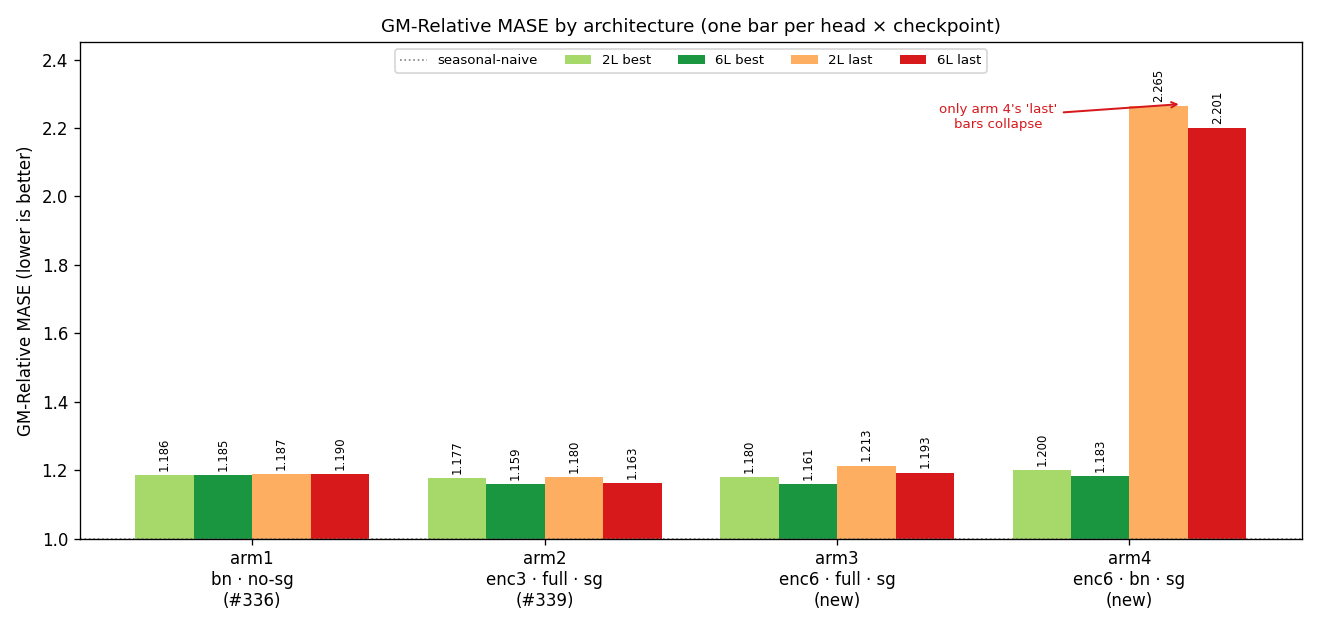
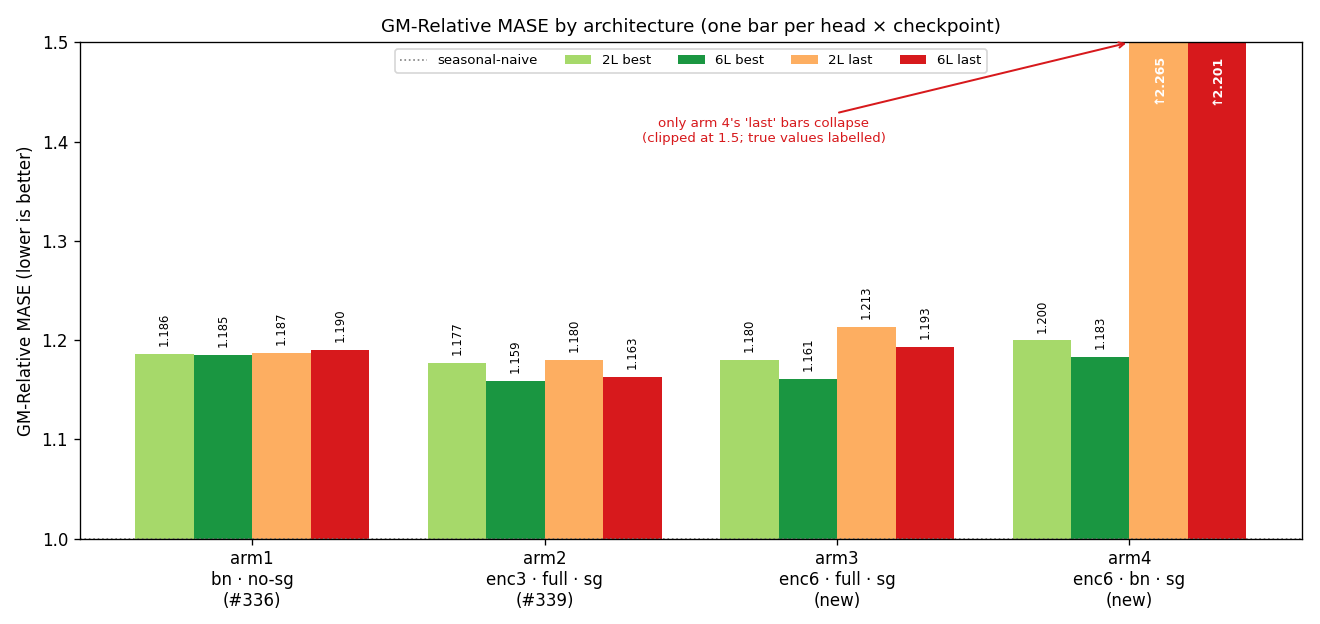
report(#341): image-first rewrite (per maintainer) — lead with figures, table after; new 2x2 design schematic; both bar charts clipped at 1.5 (true values labelled); intro states all new arms use stop-grad (1-2 reused); fix schematic colour (arm4 = new/sg green)

diff --git a/experiments/2026-06-11_stopgrad_capacity/scripts/plot_design_grid.py b/experiments/2026-06-11_stopgrad_capacity/scripts/plot_design_grid.py
@@ -1,0 +1,127 @@
+#!/usr/bin/env python3
+"""#341 — design schematic: the four arms placed on the encoder-depth x
+forecaster-width plane (all stop-grad), so the experiment's shape is shown, not
+tabulated in prose. Arms 1-2 are reused references; 3-4 are new. Arm 1 shares the
+enc6 x bottleneck cell with arm 4 but is the no-stop-grad reference (marked). The
+two comparisons the card makes are drawn as arrows: the depth step (a2->a3) and
+the bottleneck step (a3->a4). Env: OUT.
+"""
+import os
+import matplotlib
+matplotlib.use("Agg")
+import matplotlib.pyplot as plt
+from matplotlib.patches import FancyBboxPatch, FancyArrowPatch
+
+OUT = os.environ.get(
+    "OUT",
+    "/tmp/cf-341/experiments/2026-06-11_stopgrad_capacity/plots/design_grid.png",
+)
+
+# grid coords: x = forecaster width, y = encoder depth
+XS = {"full": 0, "bn": 1}          # full-width left, 128-bottleneck right
+YS = {"enc3": 1, "enc6": 0}        # 3-layer top, 6-layer bottom
+XLAB = ["6-layer full-width\nforecaster", "128-wide bottleneck\nforecaster"]
+YLAB = ["6-layer encoder", "3-layer encoder"]  # row 0 = enc6, row 1 = enc3
+
+NEW = "#2ca02c"
+REUSE = "#7f7f7f"
+NOSG = "#c0504d"
+
+# (x, y, title, sub, facecolor, edgecolor)
+CARDS = [
+    ("full", "enc3", "arm 2", "enc3 · full · sg\nreused — #339 winner", "#eef6ee", REUSE),
+    ("full", "enc6", "arm 3", "enc6 · full · sg\nNEW", "#eaf5ea", NEW),
+    ("bn",   "enc6", "arm 4", "enc6 · bn · sg\nNEW", "#eaf5ea", NEW),
+]
+
+fig, ax = plt.subplots(figsize=(9.2, 6.2))
+cw, ch = 0.78, 0.62
+
+
+def cell_center(xk, yk):
+    return XS[xk] + 0.5, (1 - YS[yk]) + 0.5  # invert y so enc6 sits at bottom visually
+
+
+def draw_card(xk, yk, title, sub, fc, ec, lw=2.0, dashed=False):
+    cx, cy = cell_center(xk, yk)
+    box = FancyBboxPatch(
+        (cx - cw / 2, cy - ch / 2), cw, ch,
+        boxstyle="round,pad=0.02,rounding_size=0.06",
+        linewidth=lw, edgecolor=ec, facecolor=fc,
+        linestyle="--" if dashed else "-", zorder=3,
+    )
+    ax.add_patch(box)
+    ax.text(cx, cy + 0.14, title, ha="center", va="center",
+            fontsize=13, fontweight="bold", color=ec, zorder=4)
+    ax.text(cx, cy - 0.08, sub, ha="center", va="center",
+            fontsize=9.5, color="#222", zorder=4)
+    return cx, cy
+
+
+# the three stop-grad arms
+centers = {}
+for xk, yk, title, sub, fc, ec in CARDS:
+    centers[(xk, yk)] = draw_card(xk, yk, title, sub, fc, ec)
+
+# arm 1: the no-stop-grad reference shares the enc6 x bottleneck cell with arm 4.
+# Draw it as a small offset/dashed tag so the reader sees it is the SAME architecture
+# minus the stop-grad, not a fifth cell.
+cx4, cy4 = centers[("bn", "enc6")]
+ax.text(cx4, cy4 - ch / 2 - 0.135,
+        "arm 1 — same cell, NO stop-grad (reused #336 reference)",
+        ha="center", va="center", fontsize=9, color=NOSG, fontweight="bold", zorder=4)
+
+# empty stop-grad cell (enc3 x bottleneck) — never run
+ecx, ecy = cell_center("bn", "enc3")
+ax.add_patch(FancyBboxPatch(
+    (ecx - cw / 2, ecy - ch / 2), cw, ch,
+    boxstyle="round,pad=0.02,rounding_size=0.06",
+    linewidth=1.4, edgecolor="#bbbbbb", facecolor="#f4f4f4",
+    linestyle=":", zorder=2))
+ax.text(ecx, ecy, "(not run)", ha="center", va="center",
+        fontsize=10, color="#999", style="italic", zorder=3)
+
+# comparison arrows
+# depth step: a2 (enc3 full) -> a3 (enc6 full), vertical
+c2 = centers[("full", "enc3")]; c3 = centers[("full", "enc6")]
+ax.add_patch(FancyArrowPatch(
+    (c2[0] - 0.12, c2[1] - ch / 2), (c3[0] - 0.12, c3[1] + ch / 2),
+    arrowstyle="-|>", mutation_scale=18, lw=2.0, color="#1a6e1a", zorder=5))
+ax.text(c2[0] - 0.30, (c2[1] + c3[1]) / 2, "depth step\nenc3→enc6", ha="right",
+        va="center", fontsize=9, color="#1a6e1a", fontweight="bold")
+
+# bottleneck step: a3 (enc6 full) -> a4 (enc6 bn), horizontal
+c4 = centers[("bn", "enc6")]
+ax.add_patch(FancyArrowPatch(
+    (c3[0] + cw / 2, c3[1] - 0.04), (c4[0] - cw / 2, c4[1] - 0.04),
+    arrowstyle="-|>", mutation_scale=18, lw=2.0, color="#b8860b", zorder=5))
+ax.text((c3[0] + c4[0]) / 2, c3[1] + 0.12, "width step\nfull→bottleneck", ha="center",
+        va="bottom", fontsize=9, color="#b8860b", fontweight="bold")
+
+# axes cosmetics
+ax.set_xlim(-0.55, 2.05)
+ax.set_ylim(-0.35, 2.15)
+ax.set_xticks([0.5, 1.5]); ax.set_xticklabels(XLAB, fontsize=10.5)
+ax.set_yticks([1.5, 0.5]); ax.set_yticklabels(YLAB, fontsize=10.5)
+ax.tick_params(length=0)
+for s in ax.spines.values():
+    s.set_visible(False)
+ax.set_title("Four arms on the encoder-depth × forecaster-width plane "
+             "(all stop-grad unless marked)", fontsize=12.5, pad=12)
+
+# legend chips
+handles = [
+    plt.Line2D([0], [0], marker="s", color="w", markerfacecolor="w",
+               markeredgecolor=NEW, markeredgewidth=2, markersize=13, label="new this card (stop-grad)"),
+    plt.Line2D([0], [0], marker="s", color="w", markerfacecolor="w",
+               markeredgecolor=REUSE, markeredgewidth=2, markersize=13, label="reused reference (stop-grad)"),
+    plt.Line2D([0], [0], marker="s", color="w", markerfacecolor="w",
+               markeredgecolor=NOSG, markeredgewidth=2, markersize=13, label="reused reference (NO stop-grad)"),
+]
+ax.legend(handles=handles, loc="lower left", fontsize=9, framealpha=0.9,
+          bbox_to_anchor=(-0.02, -0.02))
+
+fig.tight_layout()
+os.makedirs(os.path.dirname(OUT), exist_ok=True)
+fig.savefig(OUT, dpi=120)
+print("wrote", OUT)

diff --git a/experiments/2026-06-11_stopgrad_capacity/scripts/plot_gm_by_arch.py b/experiments/2026-06-11_stopgrad_capacity/scripts/plot_gm_by_arch.py
@@ -32,22 +32,30 @@ CELLS = [("2L", "best", "2L best", "#a6d96a"),
          ("2L", "last", "2L last", "#fdae61"),
          ("6L", "last", "6L last", "#d7191c")]
 
+CEIL = 1.5  # collapsed bars (~2.2) are clipped here so the ~1.16-1.21 differences stay legible
 fig, ax = plt.subplots(figsize=(11, 5.2))
 x = np.arange(len(ARMS)); w = 0.8 / len(CELLS)
 for j, (h, c, lab, col) in enumerate(CELLS):
     vals = [gm.get((key, h, c), np.nan) for key, _ in ARMS]
+    drawn = [min(v, CEIL) if not np.isnan(v) else np.nan for v in vals]
     bx = x + (j - (len(CELLS) - 1) / 2) * w
-    ax.bar(bx, vals, w, label=lab, color=col)
+    ax.bar(bx, drawn, w, label=lab, color=col)
     for xi, v in zip(bx, vals):
-        if not np.isnan(v):
-            ax.text(xi, v + 0.012, f"{v:.3f}", ha="center", va="bottom", fontsize=7, rotation=90)
+        if np.isnan(v):
+            continue
+        if v > CEIL:  # clipped bar: draw to ceiling, label true value with an up-arrow
+            ax.text(xi, CEIL - 0.012, f"↑{v:.3f}", ha="center", va="top", fontsize=7.5,
+                    rotation=90, color="white", fontweight="bold")
+        else:
+            ax.text(xi, v + 0.008, f"{v:.3f}", ha="center", va="bottom", fontsize=7, rotation=90)
 ax.axhline(1.0, color="grey", ls=":", lw=1, label="seasonal-naive")
 ax.set_xticks(x, [lab for _, lab in ARMS])
 ax.set_ylabel("GM-Relative MASE (lower is better)")
-ax.set_ylim(1.0, 2.45)
+ax.set_ylim(1.0, CEIL)
 ax.legend(fontsize=8, ncols=5, loc="upper center")
 ax.set_title("GM-Relative MASE by architecture (one bar per head × checkpoint)", fontsize=11)
-ax.annotate("only arm 4's 'last'\nbars collapse", xy=(3.18, 2.27), xytext=(2.55, 2.2),
+ax.annotate("only arm 4's 'last' bars collapse\n(clipped at 1.5; true values labelled)",
+            xy=(3.0, CEIL), xytext=(1.75, 1.40),
             fontsize=8, color="#d7191c", ha="center",
             arrowprops=dict(arrowstyle="->", color="#d7191c", lw=1.2))
 fig.tight_layout()

diff --git a/experiments/2026-06-11_stopgrad_capacity/scripts/plot_gm_summary_sgcap.py b/experiments/2026-06-11_stopgrad_capacity/scripts/plot_gm_summary_sgcap.py
@@ -37,22 +37,29 @@ ARMS = [  # key, label, color
 ]
 fig, (axL, axR) = plt.subplots(1, 2, figsize=(15, 5), width_ratios=[1.25, 1])
 
+CEIL = 1.5  # collapsed bars (~2.2) are clipped here so the ~1.16-1.21 differences stay legible
 x = np.arange(len(CELLS)); w = 0.8 / len(ARMS)
 for j, (key, lab, col) in enumerate(ARMS):
     vals = [gm.get((key, h, c), np.nan) for h, c in CELLS]
+    drawn = [min(v, CEIL) if not np.isnan(v) else np.nan for v in vals]
     bx = x + (j - (len(ARMS) - 1) / 2) * w
-    axL.bar(bx, vals, w, label=lab, color=col)
+    axL.bar(bx, drawn, w, label=lab, color=col)
     for xi, v in zip(bx, vals):
-        if not np.isnan(v):
-            axL.text(xi, v + 0.01, f"{v:.3f}", ha="center", va="bottom", fontsize=6.5, rotation=90)
+        if np.isnan(v):
+            continue
+        if v > CEIL:  # clipped bar: draw to ceiling, label true value with an up-arrow
+            axL.text(xi, CEIL - 0.012, f"↑{v:.3f}", ha="center", va="top", fontsize=7,
+                     rotation=90, color="white", fontweight="bold")
+        else:
+            axL.text(xi, v + 0.008, f"{v:.3f}", ha="center", va="bottom", fontsize=6.5, rotation=90)
 axL.axhline(1.0, color="grey", ls=":", lw=1)
 axL.set_xticks(x, [f"{h} {c}" for h, c in CELLS])
 axL.set_ylabel("GM-Relative MASE (lower is better)")
-axL.set_ylim(1.0, 2.45)
+axL.set_ylim(1.0, CEIL)
 axL.legend(fontsize=8, ncols=2, loc="upper left")
 axL.set_title("Forecast error per arm × head × checkpoint", fontsize=10)
-axL.annotate("stop-grad + bottleneck\ncollapses at 'last'", xy=(1.27, 2.27), xytext=(0.45, 2.18),
-             fontsize=8, color="#d62728", ha="center",
+axL.annotate("stop-grad + bottleneck\ncollapses at 'last'\n(clipped at 1.5)", xy=(1.30, CEIL),
+             xytext=(2.05, 1.36), fontsize=8, color="#d62728", ha="center",
              arrowprops=dict(arrowstyle="->", color="#d62728", lw=1.2))
 
 # Right: capacity step enc3->enc6, no-sg vs sg.

diff --git a/experiments/2026-06-11_stopgrad_capacity/stopgrad_capacity.md b/experiments/2026-06-11_stopgrad_capacity/stopgrad_capacity.md
@@ -1,49 +1,49 @@
 # Stop-gradient shrinks the encoder-depth penalty toward zero but never flips it
 
-**Question.** A SimSiam/BYOL-style stop-gradient on the encoder side of the InfoNCE
-positive reliably *improved* downstream transfer for one recipe (#339). Separately,
-growing the encoder from 3 to 6 layers reliably *hurt* transfer for the no-bottleneck
-recipe *without* the stop-grad (#336). If the stop-grad changes what the encoder learns,
-the extra depth that hurt without it might start to pay. Does the stop-grad **flip the
-sign of the encoder-depth knob** — and how does it interact with the forecaster bottleneck?
+**Question.** #339 found a SimSiam/BYOL-style stop-gradient on the encoder side of the
+InfoNCE positive improved transfer; #336 (no stop-grad) found growing the encoder 3→6 layers
+*hurt* transfer. Does adding the stop-grad flip the sign of that depth knob — make the extra
+capacity start to pay — and how does it interact with the forecaster bottleneck?
 
-Two new backbones (arms 3–4, both with stop-grad) are compared against two **reused**
-references — arm 1 (no stop-grad, #336) and arm 2 (stop-grad, #339). All four share the
-GRU patch-embedding, d_model 384 / 6 heads, the crossfade-triplet data mix, 12,500 steps at
-batch 1024, and seed 20260520, and differ only in three knobs:
+## The design: four arms, two stop-grad comparisons
 
-| # | encoder | forecaster | stop-grad | role |
-|---|---|---|:--:|---|
-| 1 | 6-layer | 128-wide bottleneck | no | base+triplet (#336) |
-| 2 | 3-layer | 6-layer full-width | yes | the #339 winner |
-| 3 | 6-layer | 6-layer full-width | yes | **new** — depth, full-width |
-| 4 | 6-layer | 128-wide bottleneck | yes | **new** — base + stop-grad |
+![Four arms placed on the encoder-depth × forecaster-width plane. Arm 2 (enc3·full·sg,
+reused #339) and arm 3 (enc6·full·sg, new) bracket the depth step; arm 3 and arm 4
+(enc6·bottleneck·sg, new) bracket the width step. Arm 1 (enc6·bottleneck, reused #336)
+occupies the same cell as arm 4 but is the no-stop-grad reference. The enc3·bottleneck·sg
+cell was not run.](plots/design_grid.png)
 
-**Result.** Two findings, both in the figure below.
+Both new backbones (arms 3–4) use stop-grad; the two reused references are arm 1 (no
+stop-grad, #336) and arm 2 (stop-grad, #339). Nothing this card trained omits the
+stop-grad. All four share the GRU patch-embedding, d_model 384 / 6 heads, the
+crossfade-triplet mix, 12,500 steps at batch 1024, and seed 20260520.
 
-![Left: GM-Relative MASE per arm × head × checkpoint — every arm sits near 1.16–1.21
-except arm 4 (stop-grad + bottleneck), which collapses above 2.2 at the last checkpoint
-while remaining normal at best-loss. Right: the encoder-depth step (enc3→enc6) as a
-paired-bootstrap change with its 90% interval — without stop-grad (red) the step is a
-penalty on three of four cells (up to +0.13; the 6-layer best-loss cell is a smaller,
-non-significant +0.015); with stop-grad (green) it shrinks toward zero (≤+0.035) and
-never reverses.](plots/gm_summary.png)
+## Result
 
-1. **Stop-grad nearly cancels the depth penalty but does not reverse it.** With the
-   full-width forecaster, growing the encoder 3→6 layers under stop-grad is tied at the
-   best-loss checkpoint (both heads, intervals straddle zero) and only mildly worse at
-   the last checkpoint — a fraction of the reliable penalty the same step incurs *without*
-   the stop-grad. So the stop-grad neutralises most of the damage from extra depth, yet
-   the deeper encoder still never *beats* the shallower one: capacity does not start to pay.
-2. **The bottleneck forecaster under stop-grad collapses at full training.** Arm 4 is
-   indistinguishable from the no-stop-grad base at best-loss, but by the last checkpoint
-   its forecasts are worse than the seasonal-naive baseline (GM-Relative MASE > 2 on both
-   heads). The full-width arm shows no such collapse — the failure is specific to the
-   bottleneck-plus-stop-grad combination, and only at full training.
+![Left: GM-Relative MASE per arm × head × checkpoint (collapsed bars clipped at 1.5, true
+value labelled). Every arm sits at 1.16–1.21 except arm 4, whose last-checkpoint bars jump
+above 2.2 while its best-loss bars stay with the pack. Right: the depth step enc3→enc6 as a
+paired-bootstrap Δ with 90% interval — without stop-grad (red) it is a penalty on three of
+four cells; with stop-grad (green) it shrinks toward zero and never crosses
+below.](plots/gm_summary.png)
 
-*Forecast error is **GM-Relative MASE**: the geometric mean, over the GIFT-Eval
-benchmark's 97 forecasting tasks, of a model's error divided by the seasonal-naive
-forecast's error. Lower is better; 1.0 is seasonal-naive.*
+Stop-grad neutralises most of the depth penalty (green intervals straddle or barely clear
+zero) but the deeper encoder never *beats* the shallower one — capacity does not start to
+pay. Separately, the stop-grad + bottleneck arm (red, arm 4) is normal at best-loss and
+collapses below seasonal-naive at the last checkpoint; the full-width arm does not.
+
+![GM-Relative MASE grouped by architecture, four bars (head × checkpoint) per arm, collapsed
+bars clipped at 1.5. Only arm 4 splits within-arm — best-loss with the pack, last-checkpoint
+collapsed; the other three arms are flat across all four cells.](plots/gm_by_arch.png)
+
+The collapse is specific to the bottleneck-plus-stop-grad combination and only at full
+training: forecaster width is the only knob differing between arm 4 and the stable arm 3.
+
+*Forecast error is **GM-Relative MASE**: the geometric mean, over GIFT-Eval's 97 forecasting
+tasks, of a model's error divided by the seasonal-naive forecast's error. Lower is better;
+1.0 is seasonal-naive. Each pairwise Δ carries a **paired-bootstrap** 90% interval — resample
+the 97-task list with repeats and score both arms on each resample so per-task difficulty
+cancels.*
 
 | arm | 2-layer head, best / last | 6-layer head, best / last |
 |---|--:|--:|
@@ -52,79 +52,49 @@ forecast's error. Lower is better; 1.0 is seasonal-naive.*
 | 3 — enc6, full, sg | 1.180 / 1.213 | 1.161 / 1.193 |
 | 4 — enc6, bn, sg | 1.200 / **2.265** | 1.183 / **2.201** |
 
-![GM-Relative MASE grouped by architecture (x-axis), one bar per head × checkpoint — every
-arm's four cells sit at ~1.16–1.21 except arm 4 (enc6 + bottleneck + stop-grad), whose two
-last-checkpoint bars jump to ~2.2 while its best-loss bars stay with the pack.](plots/gm_by_arch.png)
-
-Read per architecture, only arm 4 has a within-arm split — best-loss normal, last-checkpoint
-collapsed; the other three arms are flat across all four cells.
-
-Each pairwise change carries a **paired-bootstrap** 90% interval (resample the 97-task
-list with repeats, score both arms on each resample so per-task difficulty cancels). The
-depth step under stop-grad (arm 2→3) is ns at best-loss on both heads and reliably worse
-by ≈+0.03 at last; the same step without stop-grad (#336's no-bottleneck arms) is reliably
-worse on three of four cells, by up to +0.13. Adding stop-grad to the base recipe (arm 1→4) is ns at
-best-loss and reliably worse by ≈+1.0 at last.
-
 ## Training dynamics: transfer peaks early; only the bottleneck collapses after
 
-![Training metrics, log-log, the two new arms (solid) against the #339 stop-grad arm and
-the no-stop-grad base (dashed). The bottleneck arm's floor-subtracted contrastive loss
-(top-left) bottoms early and then climbs; both stop-grad arms hold far more batch-wise
-embedding dimensions in use (bottom-centre, U_batch) than the no-stop-grad
-base.](plots/training_metrics.png)
+![Training metrics, log-log: the two new arms (solid) against the #339 stop-grad arm and the
+no-stop-grad base (dashed). The bottleneck arm's floor-subtracted contrastive loss (top-left)
+bottoms early then climbs; both stop-grad arms hold far more batch-wise embedding dimensions
+in use (bottom-centre, U_batch) than the no-stop-grad base.](plots/training_metrics.png)
 
-For arm 4 the downstream score tracks the pretext loss across the two measured checkpoints. Its floor-subtracted
-contrastive loss reaches its minimum at step ~1000 and then *rises* to a plateau; the
-best-loss checkpoint (step ~1000) transfers normally (~1.18–1.20) while the fully-trained
-checkpoint transfers far worse (~2.2). The full-width arm's loss rises after its own early
-minimum too, yet its last checkpoint stays close to its best (~1.16→~1.19) — so the shared
-late-training loss rise coincides with a transfer collapse only in the bottleneck arm.
-Both stop-grad arms sit in the
-high-rank regime #339 identified — the encoder keeps many more batch-wise dimensions in
-use than the no-stop-grad base — so the collapse is not a rank collapse; it is specific to
-how the bottleneck forecaster and the late-training encoder interact.
+Both stop-grad arms' losses rise after an early minimum, yet only the bottleneck arm's
+transfer collapses — so the late-training loss rise coincides with the collapse but does not
+by itself explain it. Both stop-grad arms keep many batch-wise dimensions in use (high
+U_batch), so the collapse is not a rank collapse; it is specific to how the bottleneck
+forecaster and the late-training encoder interact.
 
 ## Protocol
 
-One backbone per arm, single seed, 12,500 steps at batch 1024 on one RTX 4090. Arms 1 and
-2 are reused unchanged from #336 and #339; arms 3 and 4 add only the listed capacity change
-plus the `--stopgrad-positive-h` flag. Each finished backbone is frozen and scored by
-training a fresh quantile forecasting head on top — once with two transformer layers, once
-with six — and evaluating on GIFT-Eval's 97 tasks at two backbone checkpoints: **best-loss**
-(lowest smoothed contrastive loss; step ~1000 for arm 4, ~1300 for arm 3) and **last** (12,500).
-The eval pipeline was cross-checked against #336's published numbers (it reproduces arm 1's
-per-task MASE to four decimals), so the arm-4 collapse is a real measurement, not a pipeline
-artifact.
-
-The last-checkpoint head was trained two independent ways — a 10k re-adapt from the
-best-loss head, and a fresh 30k head trained directly on the last backbone — because the
-best-loss checkpoint lands so early (step ~1000) that a short re-adapt could in principle
-underfit. The two protocols agree within 0.011 GM on every cell, so each last-checkpoint
-score reflects the backbone, not the head-adaptation choice; the table reports the re-adapt
-head for consistency with arms 1–2.
+One backbone per arm, single seed, 12,500 steps at batch 1024 on one RTX 4090. Arms 1–2 are
+reused unchanged from #336/#339; arms 3–4 add the listed capacity change plus
+`--stopgrad-positive-h`. Each frozen backbone is scored by training a fresh quantile
+forecasting head on top — once with two transformer layers, once with six — and evaluating on
+GIFT-Eval's 97 tasks at two checkpoints: **best-loss** (lowest smoothed contrastive loss;
+step ~1000 for arm 4, ~1300 for arm 3) and **last** (12,500). The eval pipeline reproduces
+arm 1's per-task MASE to four decimals against #336's published numbers, so the arm-4
+collapse is a real measurement. The last-checkpoint head was trained two ways — a 10k
+re-adapt from the best-loss head and a fresh 30k head — which agree within 0.011 GM on every
+cell; the table reports the re-adapt head.
 
 ## What we learned
 
-- **Stop-grad does not make extra encoder depth pay** — it shrinks the depth penalty from
-  reliable on three of four cells (up to +0.13 without it) to near-zero (≤+0.035), but the
-  deeper encoder never beats the shallower one. The #339 gain is about the stop-grad itself, not a capacity
-  that the stop-grad unlocks.
-- **A forecaster bottleneck and the encoder-side stop-grad do not mix at full training.**
-  Together they are fine early but collapse below seasonal-naive by the last checkpoint —
-  a failure neither the full-width stop-grad arm nor the no-stop-grad bottleneck base
-  shows. The forecaster width is the only knob that differs between the collapsing arm (4)
-  and the stable one (3).
-- **Use the best-loss checkpoint for these stop-grad recipes.** Transfer peaks early (step
-  ~1000–1300) and degrades with further training, sharply so for the bottleneck arm; the
-  smoothed-loss minimum is a good selector.
+- **Stop-grad does not make extra encoder depth pay.** It shrinks the depth penalty from
+  reliable on three of four cells (up to +0.13 without it) to near-zero (≤+0.035 with it), but
+  the deeper encoder never beats the shallower one. The #339 gain is the stop-grad itself, not
+  unlocked capacity.
+- **Forecaster bottleneck and encoder-side stop-grad do not mix at full training** — fine
+  early, collapse below seasonal-naive by the last checkpoint, a failure neither the
+  full-width stop-grad arm nor the no-stop-grad bottleneck base shows.
+- **Use the best-loss checkpoint for these stop-grad recipes.** Transfer peaks at step
+  ~1000–1300 and degrades after; the smoothed-loss minimum is a good selector.
 
 ## Follow-up
 
-The two new arms reach their best transfer at step ~1000–1300, an order of magnitude before the
-12,500-step budget — a **stop-grad + early-stop** card (opened as **#343**) tests whether
-the full recipe line's downstream numbers can be matched at a fraction of the compute.
-Separately, the bottleneck collapse motivates a **forecaster-width sweep under stop-grad**
-to locate where stability breaks.
+Best transfer at step ~1000–1300 is an order of magnitude before the 12,500-step budget — a
+**stop-grad + early-stop** card (**#343**) tests whether the recipe's downstream numbers hold
+at a fraction of the compute. The bottleneck collapse motivates a **forecaster-width sweep
+under stop-grad** to locate where stability breaks.
 
 Next: #343
